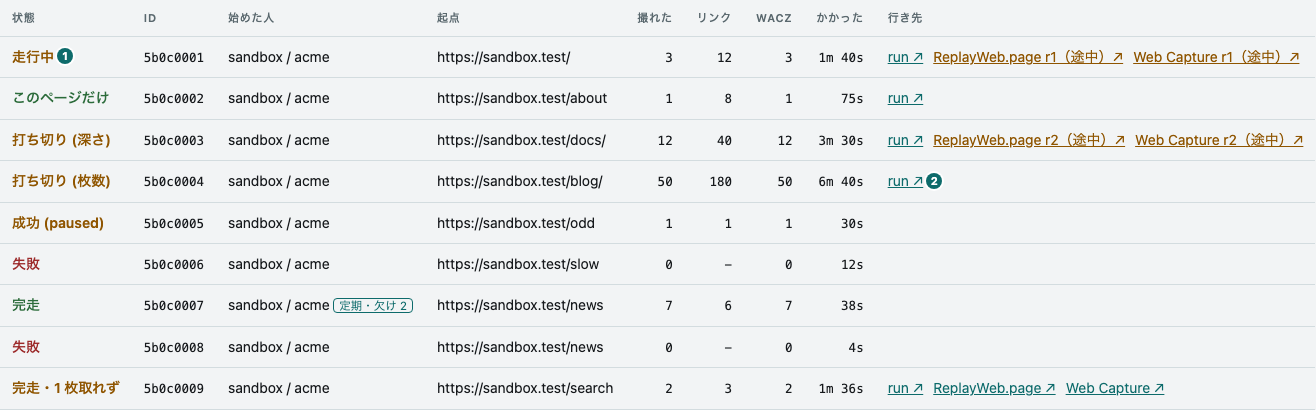
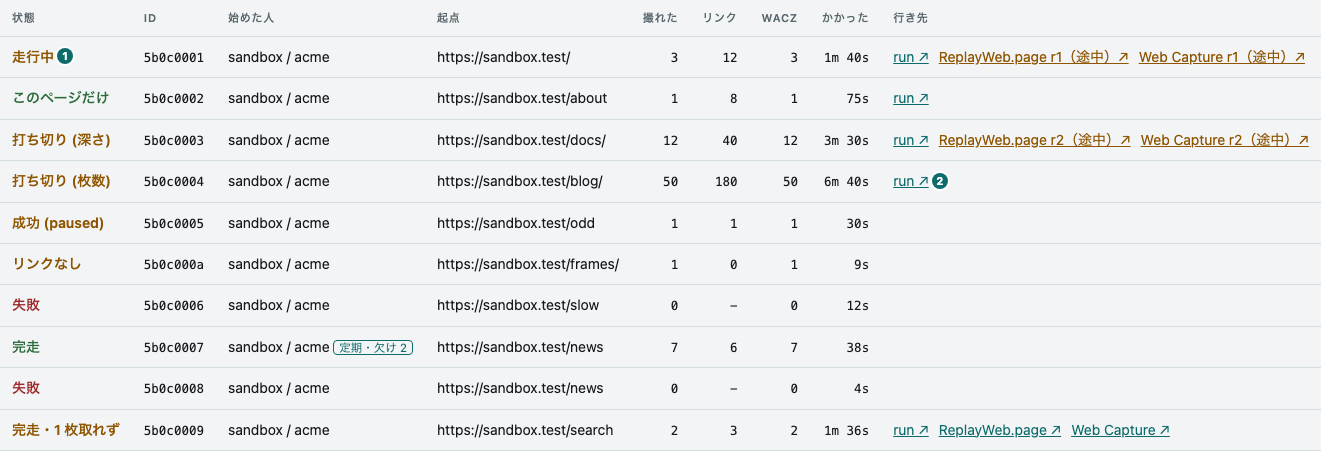
docs: クロールの表の絵を撮り直し、絵の全部の枠を 311 → 312 KB に（CAPTURE-245）
crawls.webp に no_links の行が増えて 22.8 → 24.3 KB、全部で 311.3 KB。Chief of Staff の決定。
1 枚の枠 39 KB は変えない。development.md（en・ja）の写しは 35/306 のままだったので 39/312 に。

Claude-Session: https://claude.ai/code/session_01TRqfaPDWwy3rN5MJDvREev

diff --git a/docs-site/src/content/docs/ja/development.md b/docs-site/src/content/docs/ja/development.md
@@ -173,7 +173,7 @@ npm run docs:shots -- start crawls   # 名指した絵だけ
   控えを手で写して緑にしないこと —— 絵が古いまま残ります。
 - **名指して撮っても、控えは変わらない。**
   控えを今に合わせるのは、全部を撮ったときだけです。
-- **絵は lossless の WebP で、1 枚 35 KB・全部で 306 KB まで。**
+- **絵は lossless の WebP で、1 枚 39 KB・全部で 312 KB まで。**
   撮り直すたびに git に積もるからです。
   超えると `site:check` が落ちます。
   そのときは `docs-shots.mjs` の `SHOTS` で、写す箱を小さくするか、高さの上限（`maxHeight`）を下げます。

diff --git a/docs-site/src/content/docs/development.md b/docs-site/src/content/docs/development.md
@@ -188,7 +188,7 @@ npm run docs:shots -- start crawls   # only the named ones
   the pictures would stay stale.
 - **Taking named pictures leaves the stamp alone.** Only a run that takes all of them brings it up
   to date.
-- **The pictures are lossless WebP, at most 35 KB each and 306 KB in all,** because every re-take
+- **The pictures are lossless WebP, at most 39 KB each and 312 KB in all,** because every re-take
   piles up in git. Going over makes `site:check` fail; then make the cropped box smaller, or lower
   its height limit (`maxHeight`), in `SHOTS` in `docs-shots.mjs`.
 - **A picture meant to be read fits the docs' column.** The docs show a picture at its pixel size,
